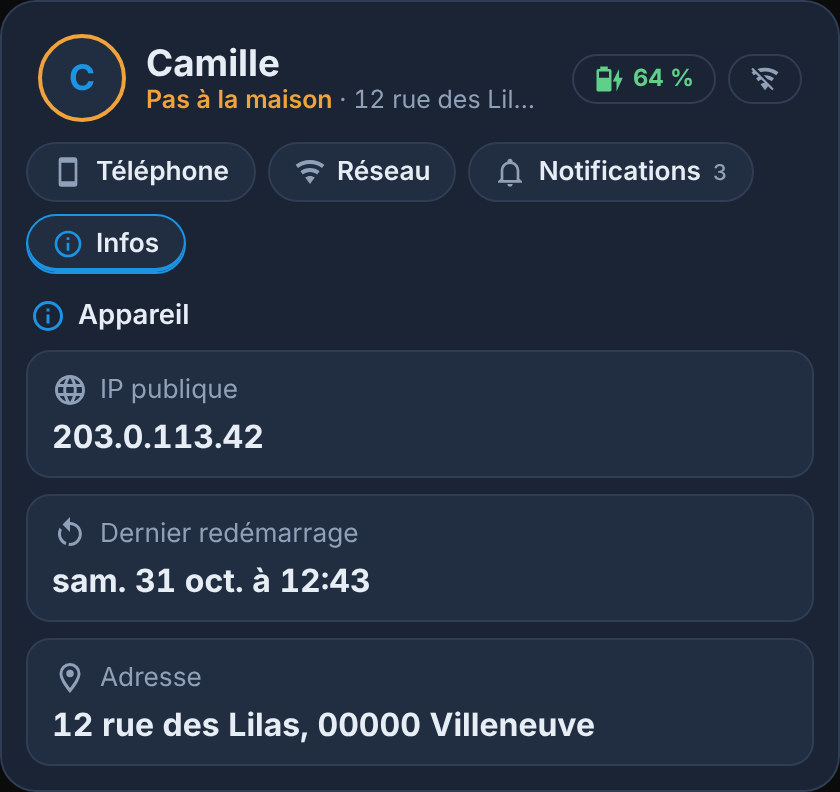
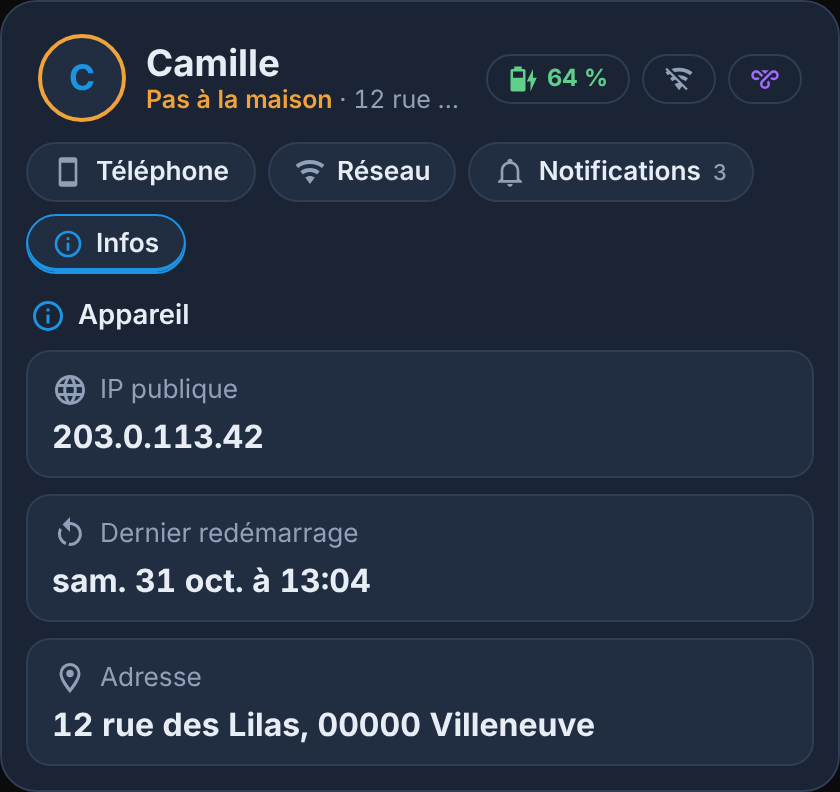
feat(web): tuile VPN WireGuard à côté des notifications (1.0.0-beta.5)
Peer wgdashboard_monitor trouvé d'après le nom du téléphone ou de la
personne : état, handshake, données reçues et envoyées, pastille dans
l'en-tête. Alarme « Aucune » et notifications « Indisponible ».

Claude-Session: https://claude.ai/code/session_01CSixJnFf4qBMac7uTfNvnW

Changed region(s): [[0.5262, 0.0606, 0.8357, 0.1515], [0.3405, 0.697, 0.4333, 0.7576], [0.8976, 0.0606, 0.9286, 0.1212]]

diff --git a/tracker-card.js b/tracker-card.js
@@ -12,7 +12,7 @@
  * Toutes les entités du téléphone peuvent être indiquées à la main sous « phone: ».
  */
 
-const CARD_VERSION = "1.0.0-beta.4";
+const CARD_VERSION = "1.0.0-beta.5";
 
 const define = (name, cls) => { if (!customElements.get(name)) customElements.define(name, cls); };
 const esc = (v) => String(v ?? "").replace(/[&<>"']/g, (c) => ({ "&": "&amp;", "<": "&lt;", ">": "&gt;", '"': "&quot;", "'": "&#39;" }[c]));
@@ -168,7 +168,7 @@ const PHONE_KEYS = {
 const PHONE_GROUPS = [
   ["Batterie", [["battery", "Niveau de batterie", "sensor"], ["charging", "En charge", "binary_sensor"], ["battery_state", "État de la batterie (iPhone)", "sensor"], ["charger_type", "Type de chargeur", "sensor"]]],
   ["Réseau", [["network_type", "Type de réseau", "sensor"], ["data_network", "Réseau mobile (4G, 5G…)", "sensor"], ["wifi_state", "Wi-Fi activé", "binary_sensor"], ["wifi_ssid", "Réseau Wi-Fi", "sensor"],
-    ["hotspot", "Partage de connexion", "binary_sensor"], ["bt_state", "Bluetooth activé", "binary_sensor"], ["bt_conn", "Connexion Bluetooth", "sensor"], ["sim", "Carte SIM", "sensor"], ["high_acc", "GPS haute précision", "binary_sensor"]]],
+    ["hotspot", "Partage de connexion", "binary_sensor"], ["vpn", "VPN WireGuard : peer connecté (wgdashboard_monitor)", "binary_sensor"], ["bt_state", "Bluetooth activé", "binary_sensor"], ["bt_conn", "Connexion Bluetooth", "sensor"], ["sim", "Carte SIM", "sensor"], ["high_acc", "GPS haute précision", "binary_sensor"]]],
   ["Activité et notifications", [["activity", "Activité détectée", "sensor"], ["ringer", "Mode de sonnerie", "sensor"], ["notif_count", "Notifications", "sensor"], ["next_alarm", "Prochaine alarme", "sensor"]]],
   ["Localisation", [["tracker", "Suivi de position (device_tracker)", "device_tracker"], ["proximity", "Distance de la maison (facultatif, sinon calculée)", "sensor"], ["geocoded", "Adresse géocodée", "sensor"], ["rue", "Rue", "sensor"], ["ville", "Ville", "sensor"]]],
   ["Système", [["public_ip", "IP publique", "sensor"], ["last_reboot", "Dernier redémarrage", "sensor"]]],
@@ -200,6 +200,15 @@ const readNotifs = (st) => {
   }
   return out.sort((x, y) => y.t - x.t);
 };
+const slug = (v) => String(v || "").normalize("NFD").replace(/[\u0300-\u036f]/g, "").toLowerCase().replace(/[^a-z0-9]+/g, "_").replace(/^_|_$/g, "");
+const tokens = (v) => slug(v).split("_").filter((t) => t.length > 1);
+/** Volume de données : valeur et unité du capteur, en unités françaises (Go, Mo…). */
+const UNITS_FR = { B: "o", KB: "ko", kB: "ko", MB: "Mo", GB: "Go", TB: "To", KiB: "Kio", MiB: "Mio", GiB: "Gio", TiB: "Tio" };
+const fmtData = (st) => {
+  if (!st || !ok(st.state)) return "—";
+  const n = parseFloat(st.state), u = st.attributes?.unit_of_measurement || "Go";
+  return Number.isFinite(n) ? `${n.toLocaleString("fr-FR", { maximumFractionDigits: n < 10 ? 2 : 1 })} ${UNITS_FR[u] || u}` : st.state;
+};
 const ago = (ms) => {
   if (!ms) return "";
   const m = Math.round((Date.now() - ms) / 60000);
@@ -218,6 +227,7 @@ const DEMO = (() => {
     hotspot: "off", bt_state: "on", bt_conn: "Écouteurs démo", sim: "Opérateur démo", activity: "walking", high_acc: "off",
     ringer: "vibrate", notif_count: "3", next_alarm: t(13.5), geocoded: "12 rue des Lilas, Villeneuve", rue: "12 rue des Lilas", ville: "Villeneuve",
     proximity: "2.4", public_ip: "203.0.113.42", last_reboot: t(-80), heart_rate: "78",
+    vpn: "on", vpn_handshake: t(-0.03), vpn_rx: "1.24", vpn_tx: "0.38",
     notifs: [
       { pkg: "com.google.android.apps.messaging", title: "Dominique", text: "Je passe prendre le pain en rentrant, il te faut autre chose ?", t: Date.now() - 4 * 60e3 },
       { pkg: "com.whatsapp", title: "Famille démo", text: "Photo", t: Date.now() - 38 * 60e3 },
@@ -325,6 +335,24 @@ class TrackerCard extends HTMLElement {
     }
     // distance, rue et ville : calculées par la carte ; une entité indiquée sous « phone: » reste prioritaire
     for (const k of ["proximity", "rue", "ville"]) if (cfg.phone[k]) out[k] = cfg.phone[k];
+    // VPN WireGuard (intégration wgdashboard_monitor) : le peer dont le nom correspond au téléphone ou à la personne
+    const st = h?.states || {};
+    let vpn = cfg.phone.vpn;
+    if (!vpn) {
+      const d = dev && h?.devices?.[dev];
+      const names = [d?.name_by_user, d?.name, tracker?.split(".")[1], cfg.person?.split(".")[1], person?.attributes?.friendly_name].filter(Boolean).map(tokens).filter((t) => t.length);
+      const sub = (a, b) => a.length && a.every((t) => b.includes(t));
+      vpn = Object.keys(st).find((e) => {
+        if (!/^binary_sensor\..+_connected$/.test(e) || !(reg[e]?.platform === "wgdashboard_monitor" || e.startsWith("binary_sensor.wgdashboard_"))) return false;
+        const peer = tokens(e.slice(14, -10).replace(/^wgdashboard_[a-z0-9]+_/, ""));
+        return names.some((n) => sub(peer, n) || sub(n, peer));
+      });
+    }
+    if (vpn) {
+      out.vpn = vpn;
+      const base = vpn.replace(/^binary_sensor\./, "").replace(/_connected$/, "");
+      for (const [k, sfx] of [["vpn_handshake", "last_handshake"], ["vpn_rx", "data_received"], ["vpn_tx", "data_sent"]]) if (st[`sensor.${base}_${sfx}`]) out[k] = `sensor.${base}_${sfx}`;
+    }
     this._ents = out; this._entsFor = h?.states;
     return out;
   }
@@ -412,7 +440,14 @@ class TrackerCard extends HTMLElement {
     const ncCol = !Number.isFinite(nc) ? null : nc > 10 ? "--t-red" : nc > 0 ? "--pc-warn" : "--med-down";
     const alarmIso = this._v("next_alarm");
     const alarmMs = alarmIso ? new Date(alarmIso) - Date.now() : NaN;
-    const alarm = alarmIso ? fmtDate(alarmIso, true) || alarmIso : null;
+    const alarm = alarmIso ? fmtDate(alarmIso, true) || alarmIso : "Aucune";
+    const vpnOn = this._v("vpn") === "on";
+    const hsIso = this._v("vpn_handshake");
+    const hsMs = hsIso ? Date.parse(hsIso) : NaN;
+    const vData = (k) => demo ? (DEMO[k] ? `${String(DEMO[k]).replace(".", ",")} Go` : "—") : fmtData(this._st(k));
+    const vpnTile = has("vpn") ? `<div class="pc-t"${ent("vpn")}${col(vpnOn ? "--med-down" : null)}><div class="pc-tt"><ha-icon icon="${vpnOn ? "mdi:vpn" : "mdi:lan-disconnect"}"></ha-icon>VPN WireGuard</div>
+        <b>${vpnOn ? "Connecté" : this._v("vpn") ? "Déconnecté" : "—"}</b>
+        <div class="pc-tn">${Number.isFinite(hsMs) ? `Handshake ${esc(ago(hsMs))}` : ""}${has("vpn_rx") || has("vpn_tx") ? `${Number.isFinite(hsMs) ? "<br>" : ""}↓ ${esc(vData("vpn_rx"))} · ↑ ${esc(vData("vpn_tx"))}` : ""}</div></div>` : "";
 
     const batBlock = has("battery") ? `<div class="pc-state ${bl}"${ent("battery")}>
         <ha-icon icon="${batIcon(bat, charging)}"></ha-icon>
@@ -432,8 +467,9 @@ class TrackerCard extends HTMLElement {
       + sec("", "", actBlock)
       + sec("mdi:cellphone-information", "Téléphone", `<div class="pc-ts">
         ${tile("ringer", "Sonnerie", rIcon, rLbl, rCol)}
-        ${tile("notif_count", "Notifications", "mdi:bell-badge-outline", Number.isFinite(nc) ? String(nc) : "—", ncCol, notifs.length ? "goto" : "")}
-        ${tile("next_alarm", "Prochaine alarme", "mdi:alarm", alarm, alarmMs > 0 && alarmMs < 3600e3 ? "--t-red" : alarm ? "--pc-warn" : null, "wide")}
+        ${tile("next_alarm", "Prochaine alarme", "mdi:alarm", alarm, alarmMs > 0 && alarmMs < 3600e3 ? "--t-red" : alarmIso ? "--pc-warn" : null)}
+        ${tile("notif_count", "Notifications", "mdi:bell-badge-outline", Number.isFinite(nc) ? String(nc) : "Indisponible", ncCol, notifs.length ? "goto" : "")}
+        ${vpnTile}
         ${smsTile}
       </div>`.replace(/<div class="pc-ts">\s*<\/div>/, ""))
       + (cfg.find_phone_script ? sec("", "", `<button class="pc-btn bad" id="find"><ha-icon icon="mdi:cellphone-sound"></ha-icon><span>Faire sonner le téléphone</span></button>`) : "");
@@ -484,6 +520,7 @@ class TrackerCard extends HTMLElement {
       has("wifi_state") || has("wifi_ssid") ? `<span class="pc-x" title="Wi-Fi"${col(wifiOn ? "--med-down" : null)}><ha-icon icon="${wifiOn ? "mdi:wifi" : "mdi:wifi-off"}"></ha-icon></span>`
         : netChip ? `<span class="pc-x" title="${esc(netChip[2])}"${col(netChip[1])}><ha-icon icon="${netChip[0]}"></ha-icon></span>` : "",
       hotOn ? `<span class="pc-x" title="Partage de connexion"${col("--pc-warn")}><ha-icon icon="mdi:access-point"></ha-icon></span>` : "",
+      vpnOn ? `<span class="pc-x" title="VPN WireGuard connecté"${ent("vpn")}${col("--pc-violet")}><ha-icon icon="mdi:vpn"></ha-icon></span>` : "",
     ].join("");
 
     const sub = `<b class="${home ? "home" : pstate ? "away" : ""}">${esc(zone || (cfg.person ? "Inconnu" : "Choisissez une personne"))}</b>${where ? ` · ${esc(where)}` : ""}`;
@@ -585,7 +622,7 @@ class TrackerCardEditor extends HTMLElement {
       this._form = document.createElement("ha-form");
       this._form.computeLabel = (s) => s.title || LABELS[s.name] || s.name;
       this._form.computeHelper = (s) => {
-        if (!PHONE_KEYS[s.name] && !["tracker", "proximity", "rue", "ville"].includes(s.name)) {
+        if (!PHONE_KEYS[s.name] && !["tracker", "proximity", "rue", "ville", "vpn"].includes(s.name)) {
           return s.name === "person" ? "Les capteurs du téléphone de cette personne sont trouvés automatiquement." : undefined;
         }
         if (this._config.phone?.[s.name]) return undefined;

diff --git a/docs/demo.html b/docs/demo.html
@@ -78,6 +78,12 @@ add("sensor.pixel_camille_geocoded_location", "12 rue des Lilas, 00000 Villeneuv
 add("sensor.pixel_camille_public_ip_address", "203.0.113.42", {}, d1);
 add("sensor.pixel_camille_last_reboot", new Date(now - 80 * H).toISOString(), {}, d1);
 add("sensor.montre_camille_heart_rate", 78);
+// VPN WireGuard (intégration wgdashboard_monitor), peer nommé d'après le téléphone
+add("binary_sensor.wgdashboard_wg0_pixel_camille_connected", "on");
+add("sensor.wgdashboard_wg0_pixel_camille_last_handshake", new Date(now - 2 * 60e3).toISOString());
+add("sensor.wgdashboard_wg0_pixel_camille_data_received", 1.24, { unit_of_measurement: "GB" });
+add("sensor.wgdashboard_wg0_pixel_camille_data_sent", 0.38, { unit_of_measurement: "GB" });
+add("binary_sensor.wgdashboard_wg0_ordi_bureau_connected", "off");
 // Dominique : iPhone, à la maison, sur le Wi-Fi
 add("person.dominique", "home", { friendly_name: "Dominique", device_trackers: ["device_tracker.iphone_dominique"] });
 const d2 = "dev_dominique";

diff --git a/README.md b/README.md
@@ -29,7 +29,7 @@
 
 # Carte Présence et téléphone
 
-Une carte Lovelace pour Home Assistant qui montre **où est une personne** et **l'état de son téléphone** : batterie et charge, activité, distance de la maison, sonnerie, notifications (avec leur contenu et le dernier SMS), prochaine alarme, Wi-Fi, réseau mobile, Bluetooth, carte SIM, GPS, adresse, IP publique. Tout est **en français**.
+Une carte Lovelace pour Home Assistant qui montre **où est une personne** et **l'état de son téléphone** : batterie et charge, activité, distance de la maison, sonnerie, notifications (avec leur contenu et le dernier SMS), VPN WireGuard, prochaine alarme, Wi-Fi, réseau mobile, Bluetooth, carte SIM, GPS, adresse, IP publique. Tout est **en français**.
 
 Il suffit de choisir la personne : la carte **trouve toute seule les capteurs de son téléphone** (application compagnon Home Assistant, Android ou iPhone). Aucun YAML à écrire, aucune intégration en plus.
 
@@ -99,6 +99,7 @@ Activez-les dans l'application compagnon (**Paramètres → Application compagno
 | `data_network` | `…_data_network_type_sim_1` | Réseau mobile (4G, 5G…) |
 | `wifi_state` / `wifi_ssid` | `…_wifi_state` / `…_wifi_connection` ou `…_ssid` | Wi-Fi |
 | `hotspot` | `…_hotspot_state` | Partage de connexion |
+| `vpn` | `binary_sensor.wgdashboard_…_connected` (intégration [wgdashboard_monitor](https://github.com/Marlboro62/wgdashboard_monitor)) | VPN WireGuard |
 | `bt_state` / `bt_conn` | `…_bluetooth_state` / `…_bluetooth_connection` | Bluetooth |
 | `sim` | `…_sim_1` | Carte SIM |
 | `high_acc` | `…_high_accuracy_mode` | GPS haute précision |
@@ -113,6 +114,7 @@ Ce que la carte calcule elle-même, sans capteur modèle à créer :
 
 - **Distance** : calculée entre la position GPS du téléphone et la zone Maison, sans intégration Proximité ni capteur. Moins de 50 m compte comme à la maison (0 m).
 - **Rue et ville** : lues dans les attributs de l'adresse géocodée, sinon découpées dans son texte (« rue, code postal ville »).
+- **VPN WireGuard** (intégration wgdashboard_monitor) : la carte prend le peer dont le nom correspond au téléphone ou à la personne (`binary_sensor.wgdashboard_wg0_<peer>_connected`) et affiche, à côté des notifications, s'il est connecté, son dernier handshake et les données reçues et envoyées. Une pastille VPN s'ajoute dans l'en-tête quand il est connecté. Si le nom du peer ne correspond pas, indiquez-le sous `phone: vpn:`.
 - **Notifications** (Android) : le contenu de chaque notification (application, titre, message, heure) est lu dans les attributs du capteur `…_active_notification_count`. L'onglet **Notifications** les liste de la plus récente à la plus ancienne, et la tuile **Dernier SMS** montre le dernier message reçu dans l'application Messages, avec son expéditeur.
 
 Pour forcer une entité, indiquez-la sous `phone:` ; les autres restent détectées :

diff --git a/.github/release-notes/v1.0.0-beta.5.md b/.github/release-notes/v1.0.0-beta.5.md
@@ -1,0 +1,12 @@
+## Nouveautés
+
+- **Tuile VPN WireGuard**, à côté de Notifications (intégration [wgdashboard_monitor](https://github.com/Marlboro62/wgdashboard_monitor)) : peer connecté ou non, dernier handshake, données reçues et envoyées. La carte trouve le peer dont le nom correspond au téléphone ou à la personne ; sinon, indiquez-le sous `phone: vpn:` (ou dans l'éditeur, section Réseau).
+- Pastille **VPN** dans l'en-tête quand le peer est connecté.
+
+## Corrections
+
+- Prochaine alarme : « Aucune » quand aucune alarme n'est réglée (au lieu de « — »).
+- Notifications : « Indisponible » quand le capteur de l'application compagnon ne donne pas de valeur.
+- Onglet Téléphone : Sonnerie et Prochaine alarme sur une ligne, Notifications et VPN sur la suivante.
+
+Retours et bugs : [Issues GitHub](https://github.com/Marlboro62/tracker/issues).
